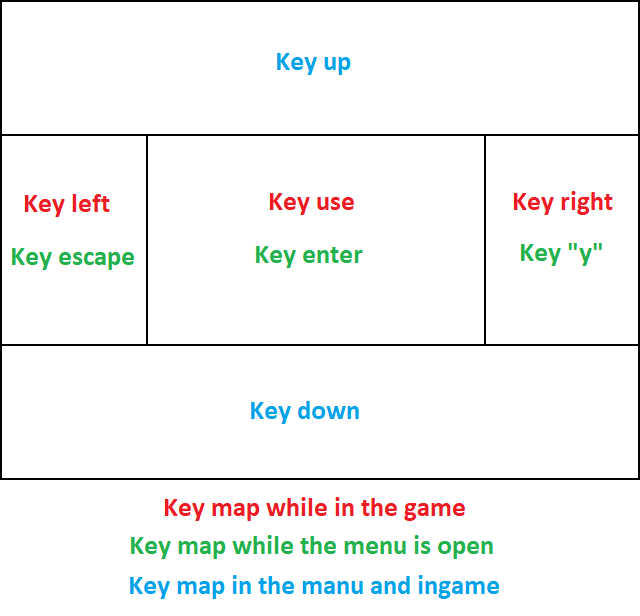
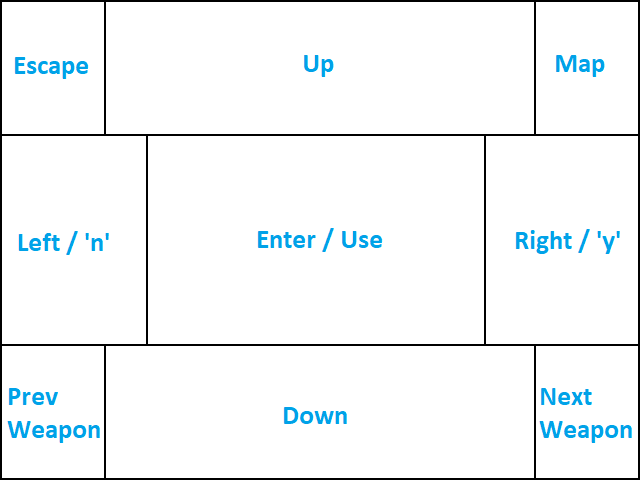
Update control scheme

diff --git a/DOOM/m_controls.c b/DOOM/m_controls.c
@@ -127,8 +127,8 @@ int key_weapon5 = '5';
 int key_weapon6 = '6';
 int key_weapon7 = '7';
 int key_weapon8 = '8';
-int key_prevweapon = 0;
-int key_nextweapon = 0;
+int key_prevweapon = KEYP_MINUS;
+int key_nextweapon = KEYP_PLUS;
 
 // Map control keys:
 
@@ -154,8 +154,8 @@ int key_menu_left      = KEY_LEFTARROW;
 int key_menu_right     = KEY_RIGHTARROW;
 int key_menu_back      = KEY_BACKSPACE;
 int key_menu_forward   = KEY_ENTER;
-int key_menu_confirm   = 'y';
-int key_menu_abort     = 'n';
+int key_menu_confirm   = KEY_RIGHTARROW;
+int key_menu_abort     = KEY_LEFTARROW;
 
 int key_menu_help      = KEY_F1;
 int key_menu_save      = KEY_F2;
@@ -169,8 +169,8 @@ int key_menu_qload     = KEY_F9;
 int key_menu_quit      = KEY_F10;
 int key_menu_gamma     = KEY_F11;
 
-int key_menu_incscreen = KEY_EQUALS;
-int key_menu_decscreen = KEY_MINUS;
+int key_menu_incscreen = 0;
+int key_menu_decscreen = 0;
 int key_menu_screenshot = 0;
 
 //

diff --git a/VirtualJoystick/virtual_joystick.c b/VirtualJoystick/virtual_joystick.c
@@ -30,6 +30,34 @@ static events event_buffer[VJ_KEY_COUNT];
 
 const constraint constraints[] = {
 
+		[VJ_SCREEN_TOP_LEFT] = {
+			.left   = 0,
+			.top    = 0,
+			.right  = 50,
+			.bottom = 65,
+		},
+
+		[VJ_SCREEN_TOP_RIGHT] = {
+			.left   = 270,
+			.top    = 0,
+			.right  = 320,
+			.bottom = 65,
+		},
+
+		[VJ_SCREEN_BOTTOM_LEFT] = {
+			.left   = 0,
+			.top    = 170,
+			.right  = 50,
+			.bottom = 240,
+		},
+
+		[VJ_SCREEN_BOTOM_RIGHT] = {
+			.left   = 265,
+			.top    = 170,
+			.right  = 320,
+			.bottom = 240,
+		},
+
 		[VJ_SCREEN_LEFT] = {
 			.top    = 45,
 			.bottom = 195,
@@ -117,7 +145,7 @@ static void check_ts(void)
 	for(int i = 0; i < sizeof(constraints) / sizeof(constraints[0]); i++)
 	{
 
-		if(i >= VJ_SCREEN_UP
+		if(i >= VJ_SCREEN_TOP_LEFT
 				&& i <= VJ_SCREEN_CENTER
 				&& !event_buffer[i].needs_to_be_sent
 				&& does_fit_constraint(ts.X, ts.Y, &constraints[i]))

diff --git a/DOOM/doomgeneric_stm32discovery.c b/DOOM/doomgeneric_stm32discovery.c
@@ -34,6 +34,26 @@ int DG_GetKey(int* pressed, unsigned char* key)
 
 	switch(evt.key)
 	{
+	case VJ_SCREEN_TOP_LEFT:
+	{
+		*key = KEY_ESCAPE;
+		break;
+	}
+	case VJ_SCREEN_TOP_RIGHT:
+	{
+		*key = KEY_TAB;
+		break;
+	}
+	case VJ_SCREEN_BOTTOM_LEFT:
+	{
+		*key = KEYP_MINUS;
+		break;
+	}
+	case VJ_SCREEN_BOTOM_RIGHT:
+	{
+		*key = KEYP_PLUS;
+		break;
+	}
 	case VJ_PUSH_BUTTON:
 	{
 		if(menuactive)
@@ -59,27 +79,13 @@ int DG_GetKey(int* pressed, unsigned char* key)
 	}
 	case VJ_SCREEN_LEFT:
 	{
-		if(menuactive)
-		{
-			*key = KEY_ESCAPE;
-		}
-		else
-		{
-			*key = KEY_LEFTARROW;
-		}
+		*key = KEY_LEFTARROW;
 
 		break;
 	}
 	case VJ_SCREEN_RIGHT:
 	{
-		if(menuactive)
-		{
-			*key = 'y';
-		}
-		else
-		{
-			*key = KEY_RIGHTARROW;
-		}
+		*key = KEY_RIGHTARROW;
 		break;
 	}
 	case VJ_SCREEN_CENTER:

diff --git a/VirtualJoystick/virtual_joystick.h b/VirtualJoystick/virtual_joystick.h
@@ -12,6 +12,10 @@ typedef enum
 {
 	VJ_KEY_NONE,
 	VJ_PUSH_BUTTON,
+	VJ_SCREEN_TOP_LEFT,
+	VJ_SCREEN_TOP_RIGHT,
+	VJ_SCREEN_BOTTOM_LEFT,
+	VJ_SCREEN_BOTOM_RIGHT,
 	VJ_SCREEN_UP,
 	VJ_SCREEN_DOWN,
 	VJ_SCREEN_LEFT,

diff --git a/README.md b/README.md
@@ -12,7 +12,7 @@ A [doomgeneric](https://github.com/ozkl/doomgeneric) port capable of running all
 
 Game controls use both the on display touch sensor and the user button (the blue button on the board).
 
-Control schemes change depending on if you are currently in the game or if the menu is popped up. This is the control mapping for the touch screen:
+This is the control mapping for the touch screen:
 
 ![](images/touch_controls.png)
 
